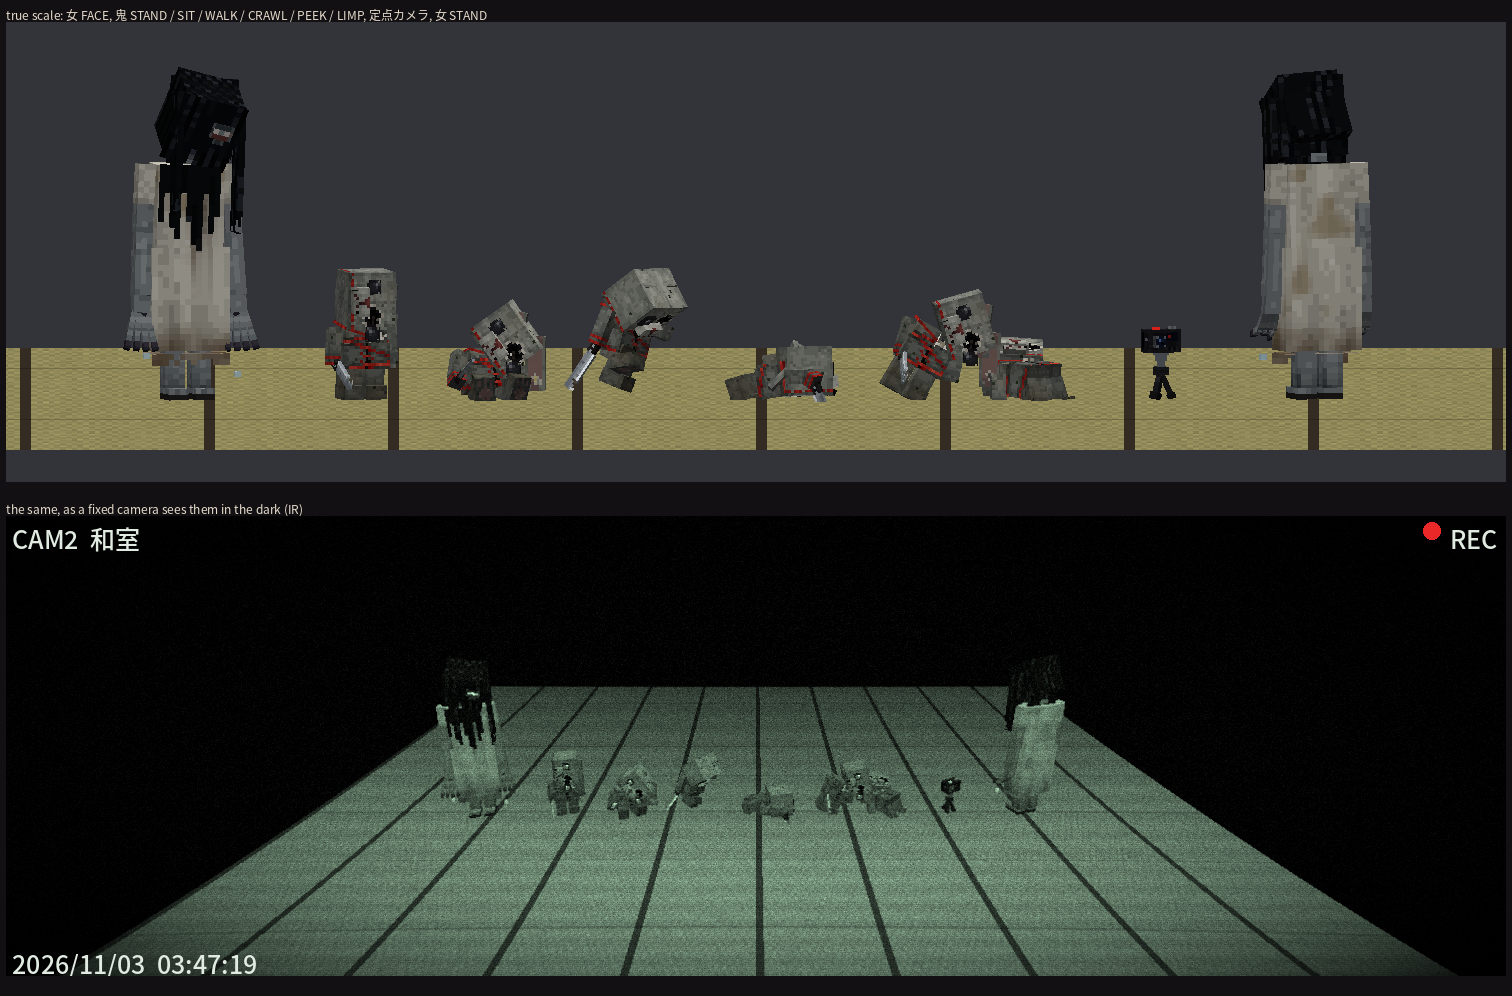
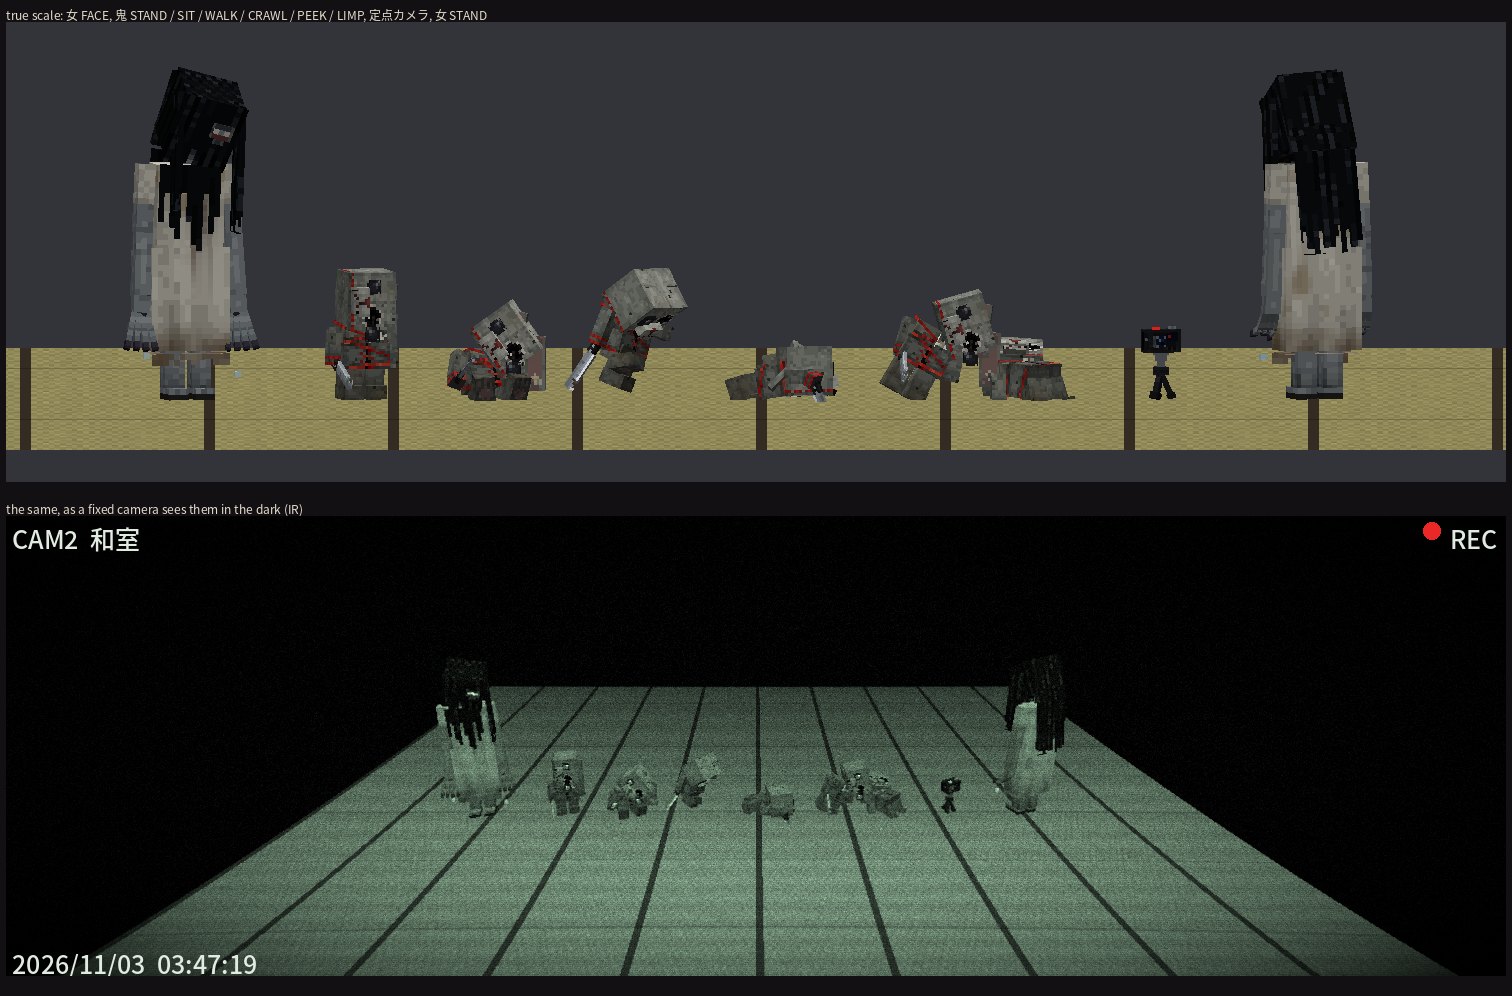
Woman: the back hair lies on the back of her head and drapes down her back instead of hanging through her when she bows
Claude-Session: https://claude.ai/code/session_017h8AWA8SMb3MbjFEftA5Gv

Changed region(s): [[0.8393, 0.0934, 0.9015, 0.249], [0.6839, 0.6847, 0.7149, 0.7781], [0.0933, 0.1245, 0.1243, 0.1556]]

diff --git a/src/main/java/com/hitori/client/model/WomanModel.java b/src/main/java/com/hitori/client/model/WomanModel.java
@@ -345,8 +345,9 @@ public class WomanModel<T extends Mob & Animated> extends HierarchicalModel<T> {
         this.blend(mem, poseTicks, blend, ageInTicks);
         // the skirt and the hair hang by their own weight; the lower curtain and the long back hair swing late
         flop(mem, 0, this.skirt, skirtFlop, 0.0F, 1.0F, 0.0F, 0.9F, 0.7F, t, this.root, this.body);
-        flop(mem, 3, this.hairBack, hairFlop * 0.8F, 0.0F, 1.0F, 0.0F, 0.5F, 0.3F, t, this.root, this.body, this.neck, this.head);
-        flop(mem, 6, this.hairBack2, hairFlop, 0.0F, 1.0F, 0.0F, 0.45F, 0.25F, t, this.root, this.body, this.neck, this.head, this.hairBack);
+        // the back hair lies on the back of her head (mostly rigid), then hangs and drapes over her back (never through it)
+        flop(mem, 3, this.hairBack, hairFlop * 0.25F, 0.0F, 1.0F, 0.0F, 0.5F, 0.3F, t, this.root, this.body, this.neck, this.head);
+        flop(mem, 6, this.hairBack2, hairFlop * 0.85F, 0.0F, 1.0F, 0.12F, 0.45F, 0.25F, t, this.root, this.body, this.neck, this.head, this.hairBack);
         flop(mem, 9, this.hairFront2, frontFlop, 0.0F, 1.0F, 0.0F, 0.45F, 0.25F, t, this.root, this.body, this.neck, this.head, this.hairFront);
         flop(mem, 12, this.hairR, sideFlop, 0.0F, 1.0F, 0.0F, 0.5F, 0.3F, t, this.root, this.body, this.neck, this.head);
         flop(mem, 15, this.hairL, sideFlop, 0.0F, 1.0F, 0.0F, 0.5F, 0.3F, t, this.root, this.body, this.neck, this.head);

diff --git a/tools/art/ent_woman.py b/tools/art/ent_woman.py
@@ -450,8 +450,9 @@ this.f4l.zRot = spread * 1.5F;
     post = '''
 // the skirt and the hair hang by their own weight; the lower curtain and the long back hair swing late
 flop(mem, 0, this.skirt, skirtFlop, 0.0F, 1.0F, 0.0F, 0.9F, 0.7F, t, this.root, this.body);
-flop(mem, 3, this.hairBack, hairFlop * 0.8F, 0.0F, 1.0F, 0.0F, 0.5F, 0.3F, t, this.root, this.body, this.neck, this.head);
-flop(mem, 6, this.hairBack2, hairFlop, 0.0F, 1.0F, 0.0F, 0.45F, 0.25F, t, this.root, this.body, this.neck, this.head, this.hairBack);
+// the back hair lies on the back of her head (mostly rigid), then hangs and drapes over her back (never through it)
+flop(mem, 3, this.hairBack, hairFlop * 0.25F, 0.0F, 1.0F, 0.0F, 0.5F, 0.3F, t, this.root, this.body, this.neck, this.head);
+flop(mem, 6, this.hairBack2, hairFlop * 0.85F, 0.0F, 1.0F, 0.12F, 0.45F, 0.25F, t, this.root, this.body, this.neck, this.head, this.hairBack);
 flop(mem, 9, this.hairFront2, frontFlop, 0.0F, 1.0F, 0.0F, 0.45F, 0.25F, t, this.root, this.body, this.neck, this.head, this.hairFront);
 flop(mem, 12, this.hairR, sideFlop, 0.0F, 1.0F, 0.0F, 0.5F, 0.3F, t, this.root, this.body, this.neck, this.head);
 flop(mem, 15, this.hairL, sideFlop, 0.0F, 1.0F, 0.0F, 0.5F, 0.3F, t, this.root, this.body, this.neck, this.head);
